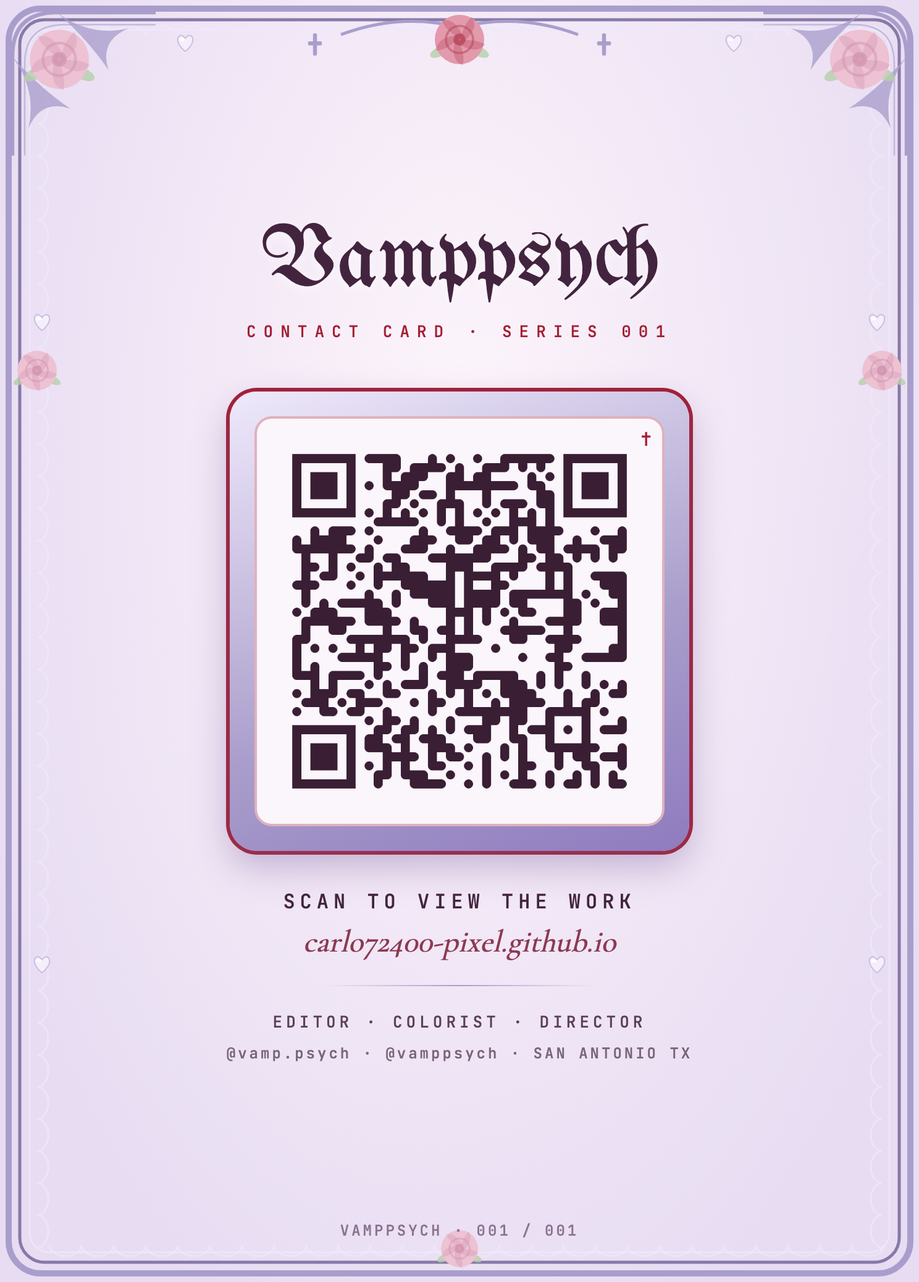
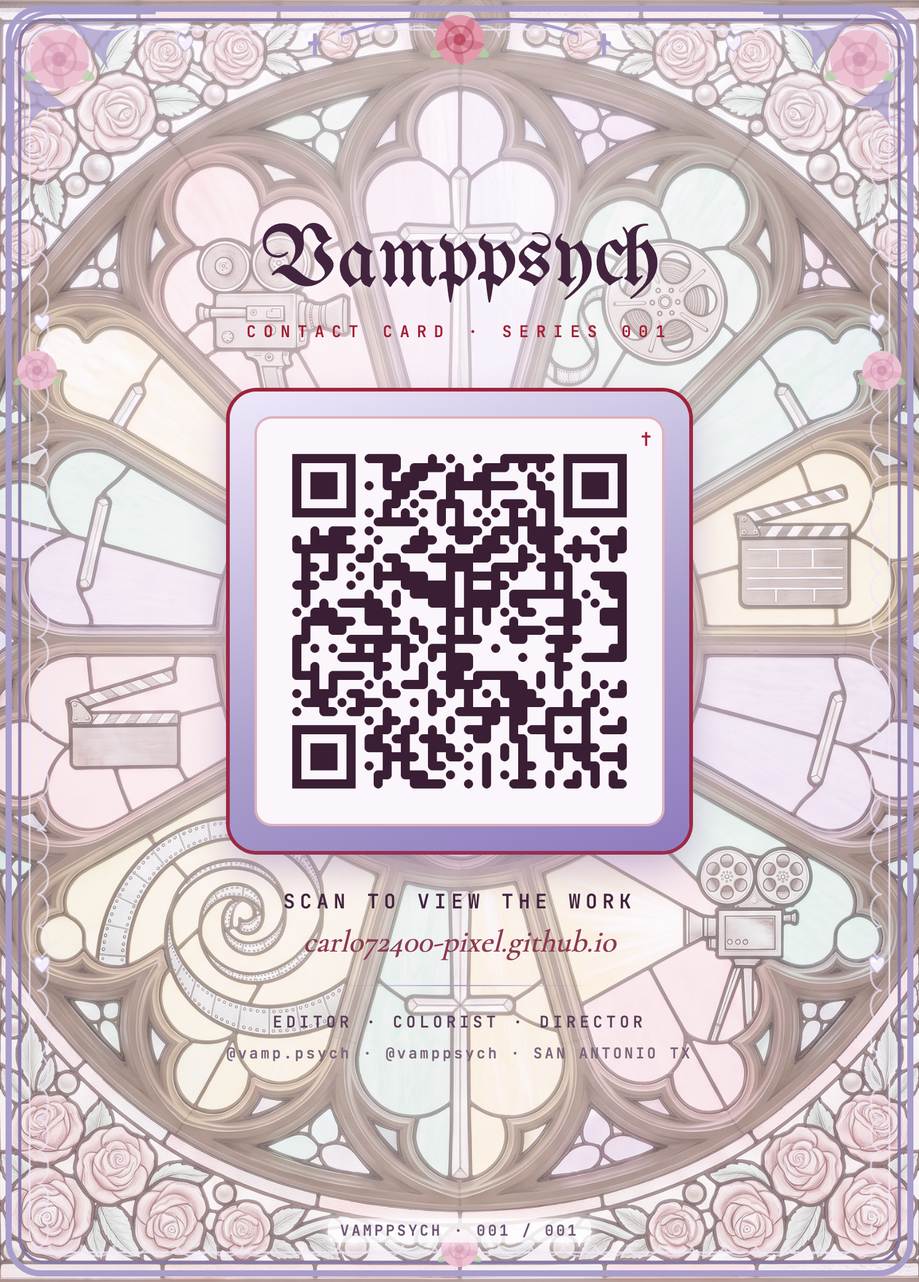
Stained-glass card back, un-clip the card foot, SHARE shows the real cards
The last three notes:

- Card front foot was clipped: the panel's content is ~429px but top:600 only gave
  it 404, so it overflowed 25px and the foot (CONTACT CARD / 001 / 001) landed under
  the lacy frame, which is z-index 6 over the panel's 5 and sliced the glyphs in half.
  Panel top -> 565 and justify-content:flex-end, so if that copy ever grows again it
  overflows UP into the art instead of back under the frame. Stress-tested with a
  much longer booking line: foot holds at y998, still clear.
- Card back was a plain lilac radial gradient. Now a generated stained-glass
  filmmaking window: lens-iris rose window, Super 8, reel, clapperboards, film-strip
  vine, projector, upright crosses per doctrine, rose border, Ennaria pastels.
  Nano Banana via the Higgsfield credit burn (~4 of the 811 left). Veil knocks it
  back so the blackletter crest and mono roles still read; GLASS_STRENGTH=soft|bold
  and GLASS_PLATE=glass_B.png to retune. setno got a frosted pill, it vanished on
  the rose border.
- BOTH QRs re-verified with a real decoder after the glass went in: front and back
  decode to the site at 1488/1000/744px card width. The glass does not touch the
  back's QR (it sits on its own solid panel).
- SHARE sheet: the old decoden-camera qr_sticker is replaced by the actual contact
  card, front + back, each opening the full-res PNG in the lightbox so the back's QR
  stays scannable. qr_sticker.jpg is left on disk, now unreferenced.

diff --git a/index-kawaii.html b/index-kawaii.html
@@ -497,9 +497,15 @@ html.proof header{min-height:860px !important}
 #share::backdrop{background:rgba(120,80,100,.5);-webkit-backdrop-filter:blur(4px);backdrop-filter:blur(4px)}
 .sheet-x{position:absolute;top:10px;right:12px;width:30px;height:30px;border:0;border-radius:50%;background:var(--panel2);color:var(--dim);font-size:19px;cursor:pointer;line-height:26px;z-index:2}
 .sheet-kick{font-family:var(--mono);font-size:10px;letter-spacing:2px;color:var(--rose-deep);margin-bottom:12px;font-weight:600}
-.sheet-qr{display:block;position:relative;border-radius:16px;overflow:hidden;box-shadow:var(--shadow-sm);cursor:zoom-in}
-.sheet-qr img{width:100%;height:auto;display:block;border-radius:16px}
-.sheet-qr-tap{position:absolute;top:9px;left:50%;transform:translateX(-50%);font-family:var(--mono);font-size:9px;letter-spacing:1px;color:#fff;background:rgba(90,43,62,.72);padding:4px 11px;border-radius:999px;pointer-events:none}
+/* share sheet now shows the real contact card (front + back) instead of the old
+   decoden-camera QR sticker; the back carries the scannable QR. */
+.sheet-cards{display:grid;grid-template-columns:1fr 1fr;gap:10px}
+.sheet-card{display:block;position:relative;border-radius:12px;overflow:hidden;box-shadow:var(--shadow-sm);cursor:zoom-in;transition:transform .3s var(--spring)}
+.sheet-card:hover{transform:translateY(-3px)}
+.sheet-card img{width:100%;height:auto;display:block}
+.sheet-card-cap{position:absolute;left:0;right:0;bottom:0;font-family:var(--mono);font-size:8.5px;letter-spacing:1px;color:#fff;background:linear-gradient(to top,rgba(90,43,62,.9),rgba(90,43,62,.55) 55%,transparent);padding:16px 4px 5px;text-align:center;pointer-events:none}
+.sheet-card-cap b{font-weight:700}
+.sheet-cards-tap{font-family:var(--mono);font-size:9px;letter-spacing:1px;color:var(--dim);text-align:center;margin-top:8px}
 .sheet-label{font-family:var(--mono);font-size:10px;letter-spacing:2px;color:var(--dim);text-align:left;margin:17px 0 8px;font-weight:600}
 .sheet-socials{display:flex;flex-direction:column;gap:8px}
 .sheet-socials a{display:flex;justify-content:space-between;align-items:center;text-decoration:none;font-size:13px;color:var(--dim);background:#fff;border:1.5px solid var(--line);border-radius:12px;padding:11px 14px;transition:border-color .2s,transform .2s}
@@ -1284,10 +1290,17 @@ document.querySelectorAll('.rate-grid,#gallery,.tapes,.monitors,.social-row,.sac
 <dialog id="share" aria-label="Share and follow Giancarlo Ortiz">
   <button class="sheet-x" id="shareX" aria-label="Close">×</button>
   <div class="sheet-kick">SCAN · FOLLOW · BOOK</div>
-  <a class="sheet-qr" id="shareQr" href="assets/kawaii/qr_sticker.jpg" aria-label="Enlarge the QR code to scan">
-    <img src="assets/kawaii/qr_sticker.jpg" alt="QR code shown as the screen of a kawaii-decorated camera; scan to open Giancarlo Ortiz's portfolio" loading="lazy">
-    <span class="sheet-qr-tap">tap to enlarge</span>
-  </a>
+  <div class="sheet-cards">
+    <a class="sheet-card" href="assets/kawaii/card/card_front_full.png" aria-label="Enlarge the contact card, front">
+      <img src="assets/kawaii/card/card_front_web.jpg" width="860" height="1200" alt="Vamppsych contact card, front: a big-eye pastel doll muse holding a Super 8 cine camera, with the moves Final Cut and Last Light" loading="lazy">
+      <span class="sheet-card-cap"><b>FRONT</b> · the muse</span>
+    </a>
+    <a class="sheet-card" href="assets/kawaii/card/card_back_full.png" aria-label="Enlarge the contact card back to scan its QR code">
+      <img src="assets/kawaii/card/card_back_web.jpg" width="860" height="1200" alt="Vamppsych contact card, back: a stained glass filmmaking window behind a scannable QR code to this site" loading="lazy">
+      <span class="sheet-card-cap"><b>BACK</b> · scan me</span>
+    </a>
+  </div>
+  <div class="sheet-cards-tap">tap a card to enlarge, then scan the back</div>
   <div class="sheet-label">FOLLOW</div>
   <div class="sheet-socials">
     <a href="https://www.tiktok.com/@vamp.psych" target="_blank" rel="noopener"><span><b>TikTok</b> @vamp.psych</span></a>
@@ -1305,9 +1318,15 @@ document.querySelectorAll('.rate-grid,#gallery,.tapes,.monitors,.social-row,.sac
   open.addEventListener('click',function(){ sh.showModal(); });
   document.getElementById('shareX').addEventListener('click',function(){ sh.close(); });
   sh.addEventListener('click',function(e){ if(e.target===sh) sh.close(); });
-  var qr=document.getElementById('shareQr');
   var lbi=document.getElementById('lightbox-img'), lbx=document.getElementById('lightbox');
-  qr.addEventListener('click',function(e){ e.preventDefault(); lbi.src=qr.getAttribute('href'); lbi.alt='QR code, scan to open the portfolio'; sh.close(); lbx.showModal(); });
+  document.querySelectorAll('.sheet-card').forEach(function(c){
+    c.addEventListener('click',function(e){
+      e.preventDefault();
+      lbi.src=c.getAttribute('href');
+      var im=c.querySelector('img'); lbi.alt=im?im.alt:'Vamppsych contact card';
+      sh.close(); lbx.showModal();
+    });
+  });
   document.getElementById('shareRates').addEventListener('click',function(){ sh.close(); });
   var cp=document.getElementById('shareCopy'), URL='https://carlo72400-pixel.github.io/';
   cp.addEventListener('click',function(){

diff --git a/index.html b/index.html
@@ -497,9 +497,15 @@ html.proof header{min-height:860px !important}
 #share::backdrop{background:rgba(120,80,100,.5);-webkit-backdrop-filter:blur(4px);backdrop-filter:blur(4px)}
 .sheet-x{position:absolute;top:10px;right:12px;width:30px;height:30px;border:0;border-radius:50%;background:var(--panel2);color:var(--dim);font-size:19px;cursor:pointer;line-height:26px;z-index:2}
 .sheet-kick{font-family:var(--mono);font-size:10px;letter-spacing:2px;color:var(--rose-deep);margin-bottom:12px;font-weight:600}
-.sheet-qr{display:block;position:relative;border-radius:16px;overflow:hidden;box-shadow:var(--shadow-sm);cursor:zoom-in}
-.sheet-qr img{width:100%;height:auto;display:block;border-radius:16px}
-.sheet-qr-tap{position:absolute;top:9px;left:50%;transform:translateX(-50%);font-family:var(--mono);font-size:9px;letter-spacing:1px;color:#fff;background:rgba(90,43,62,.72);padding:4px 11px;border-radius:999px;pointer-events:none}
+/* share sheet now shows the real contact card (front + back) instead of the old
+   decoden-camera QR sticker; the back carries the scannable QR. */
+.sheet-cards{display:grid;grid-template-columns:1fr 1fr;gap:10px}
+.sheet-card{display:block;position:relative;border-radius:12px;overflow:hidden;box-shadow:var(--shadow-sm);cursor:zoom-in;transition:transform .3s var(--spring)}
+.sheet-card:hover{transform:translateY(-3px)}
+.sheet-card img{width:100%;height:auto;display:block}
+.sheet-card-cap{position:absolute;left:0;right:0;bottom:0;font-family:var(--mono);font-size:8.5px;letter-spacing:1px;color:#fff;background:linear-gradient(to top,rgba(90,43,62,.9),rgba(90,43,62,.55) 55%,transparent);padding:16px 4px 5px;text-align:center;pointer-events:none}
+.sheet-card-cap b{font-weight:700}
+.sheet-cards-tap{font-family:var(--mono);font-size:9px;letter-spacing:1px;color:var(--dim);text-align:center;margin-top:8px}
 .sheet-label{font-family:var(--mono);font-size:10px;letter-spacing:2px;color:var(--dim);text-align:left;margin:17px 0 8px;font-weight:600}
 .sheet-socials{display:flex;flex-direction:column;gap:8px}
 .sheet-socials a{display:flex;justify-content:space-between;align-items:center;text-decoration:none;font-size:13px;color:var(--dim);background:#fff;border:1.5px solid var(--line);border-radius:12px;padding:11px 14px;transition:border-color .2s,transform .2s}
@@ -1284,10 +1290,17 @@ document.querySelectorAll('.rate-grid,#gallery,.tapes,.monitors,.social-row,.sac
 <dialog id="share" aria-label="Share and follow Giancarlo Ortiz">
   <button class="sheet-x" id="shareX" aria-label="Close">×</button>
   <div class="sheet-kick">SCAN · FOLLOW · BOOK</div>
-  <a class="sheet-qr" id="shareQr" href="assets/kawaii/qr_sticker.jpg" aria-label="Enlarge the QR code to scan">
-    <img src="assets/kawaii/qr_sticker.jpg" alt="QR code shown as the screen of a kawaii-decorated camera; scan to open Giancarlo Ortiz's portfolio" loading="lazy">
-    <span class="sheet-qr-tap">tap to enlarge</span>
-  </a>
+  <div class="sheet-cards">
+    <a class="sheet-card" href="assets/kawaii/card/card_front_full.png" aria-label="Enlarge the contact card, front">
+      <img src="assets/kawaii/card/card_front_web.jpg" width="860" height="1200" alt="Vamppsych contact card, front: a big-eye pastel doll muse holding a Super 8 cine camera, with the moves Final Cut and Last Light" loading="lazy">
+      <span class="sheet-card-cap"><b>FRONT</b> · the muse</span>
+    </a>
+    <a class="sheet-card" href="assets/kawaii/card/card_back_full.png" aria-label="Enlarge the contact card back to scan its QR code">
+      <img src="assets/kawaii/card/card_back_web.jpg" width="860" height="1200" alt="Vamppsych contact card, back: a stained glass filmmaking window behind a scannable QR code to this site" loading="lazy">
+      <span class="sheet-card-cap"><b>BACK</b> · scan me</span>
+    </a>
+  </div>
+  <div class="sheet-cards-tap">tap a card to enlarge, then scan the back</div>
   <div class="sheet-label">FOLLOW</div>
   <div class="sheet-socials">
     <a href="https://www.tiktok.com/@vamp.psych" target="_blank" rel="noopener"><span><b>TikTok</b> @vamp.psych</span></a>
@@ -1305,9 +1318,15 @@ document.querySelectorAll('.rate-grid,#gallery,.tapes,.monitors,.social-row,.sac
   open.addEventListener('click',function(){ sh.showModal(); });
   document.getElementById('shareX').addEventListener('click',function(){ sh.close(); });
   sh.addEventListener('click',function(e){ if(e.target===sh) sh.close(); });
-  var qr=document.getElementById('shareQr');
   var lbi=document.getElementById('lightbox-img'), lbx=document.getElementById('lightbox');
-  qr.addEventListener('click',function(e){ e.preventDefault(); lbi.src=qr.getAttribute('href'); lbi.alt='QR code, scan to open the portfolio'; sh.close(); lbx.showModal(); });
+  document.querySelectorAll('.sheet-card').forEach(function(c){
+    c.addEventListener('click',function(e){
+      e.preventDefault();
+      lbi.src=c.getAttribute('href');
+      var im=c.querySelector('img'); lbi.alt=im?im.alt:'Vamppsych contact card';
+      sh.close(); lbx.showModal();
+    });
+  });
   document.getElementById('shareRates').addEventListener('click',function(){ sh.close(); });
   var cp=document.getElementById('shareCopy'), URL='https://carlo72400-pixel.github.io/';
   cp.addEventListener('click',function(){
